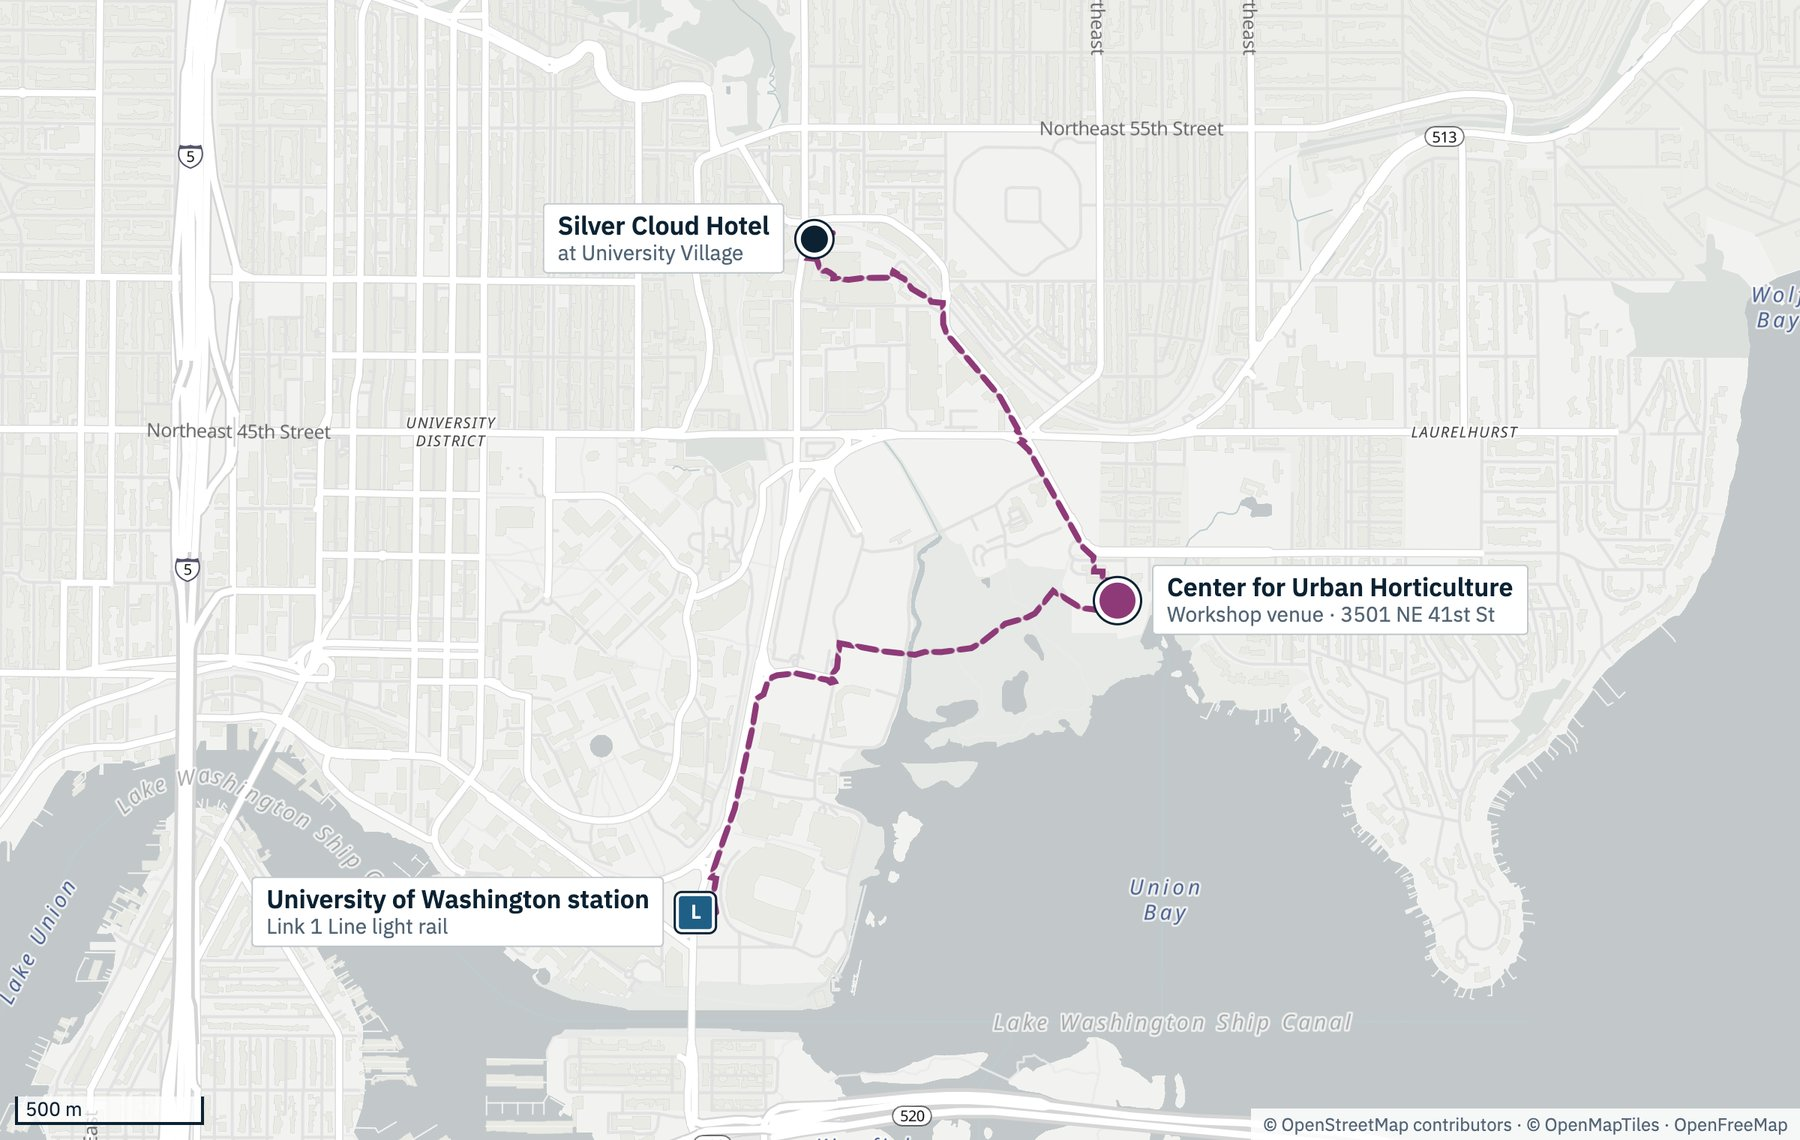
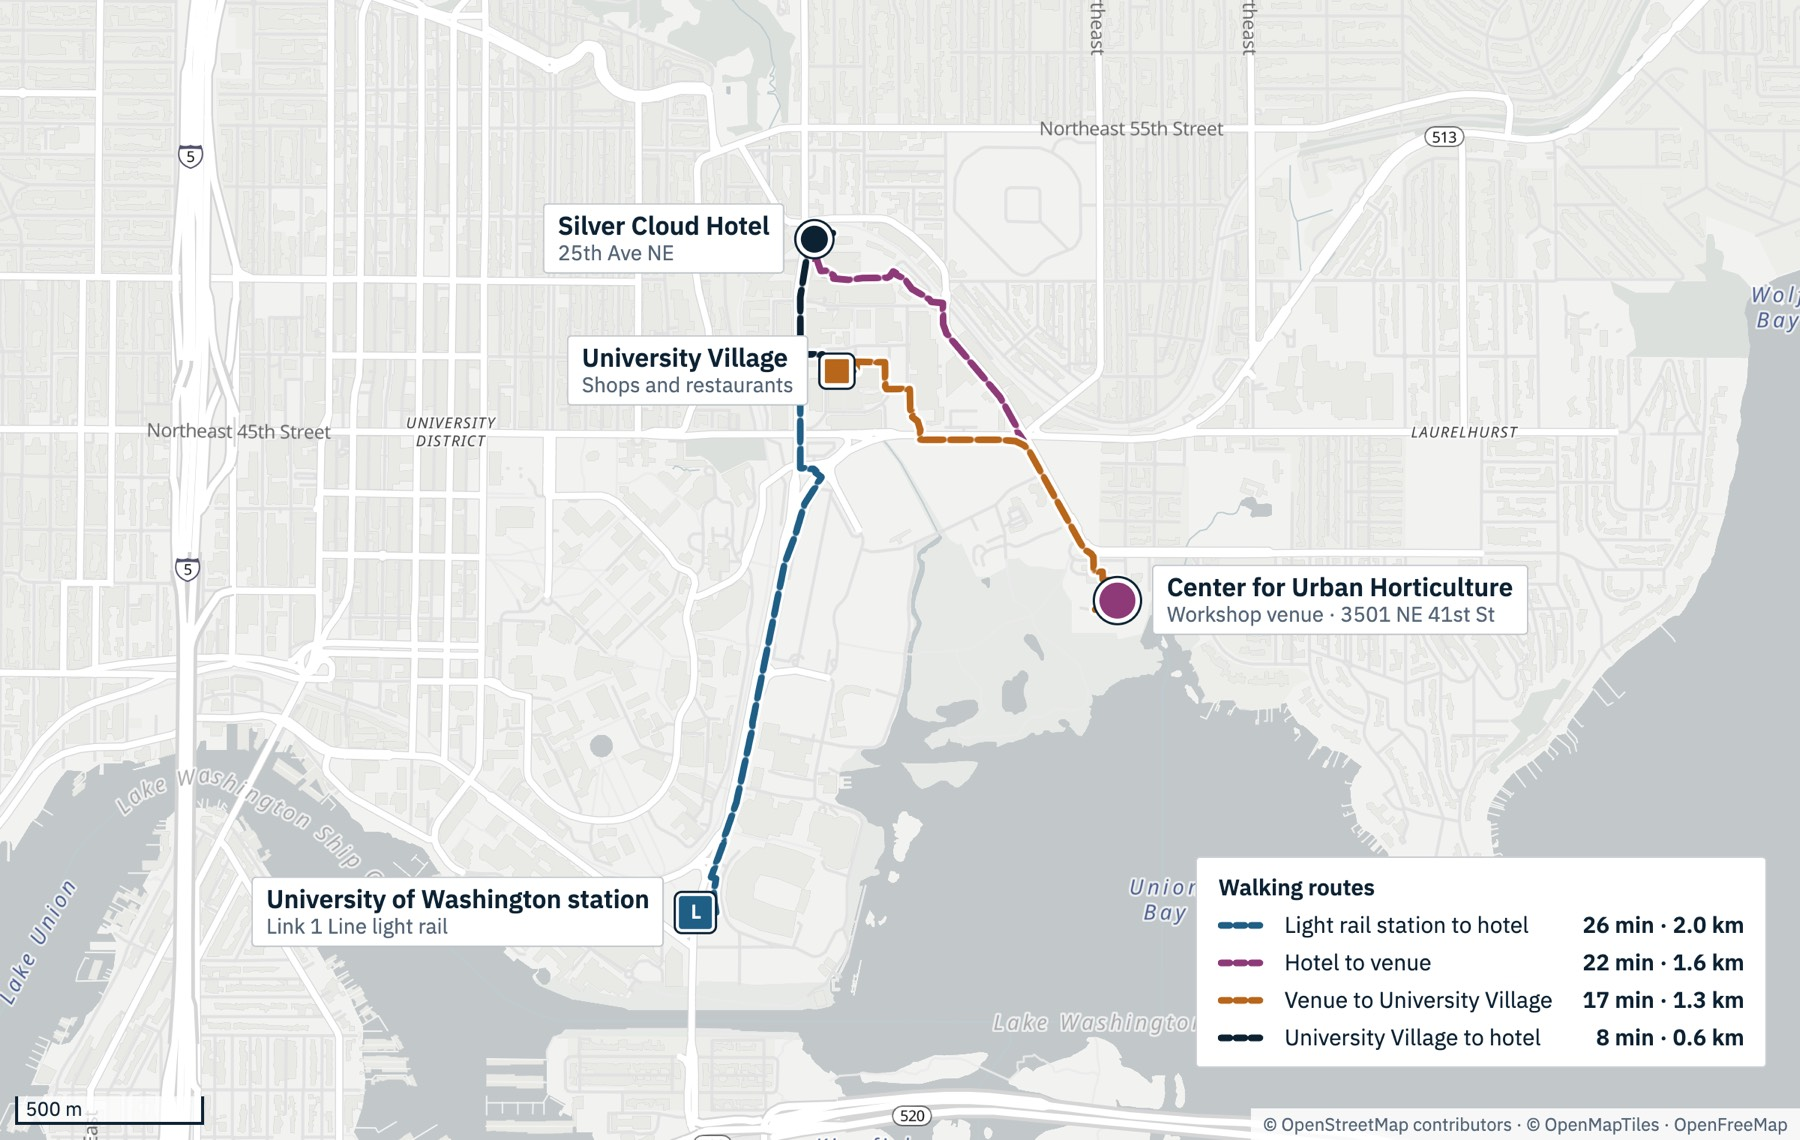
Site: venue map shows University Village and the four walking legs
Station to hotel, hotel to venue, venue to University Village, and University
Village to hotel, with times and distances in a legend. Routes from the OSRM
foot router on OpenStreetMap data.

diff --git a/docs/SOURCES.md b/docs/SOURCES.md
@@ -52,7 +52,7 @@ Files in `assets/img/people/`, cropped square from public profile photos.
   (Hypothesis, October 2026).
 - Venue map (`venue-map`): drawn for this site from OpenStreetMap data with
   OpenFreeMap vector tiles. Locations from OpenStreetMap Nominatim; walking
-  routes and times from the OSRM foot router at routing.openstreetmap.de.
+  routes, distances, and times from the OSRM foot router at routing.openstreetmap.de.
 - Light rail times: Sound Transit Link schedule, airport to University of
   Washington station about 45 minutes.
   <https://www.soundtransit.org/ride-with-us/routes-schedules/link-light-rail>
